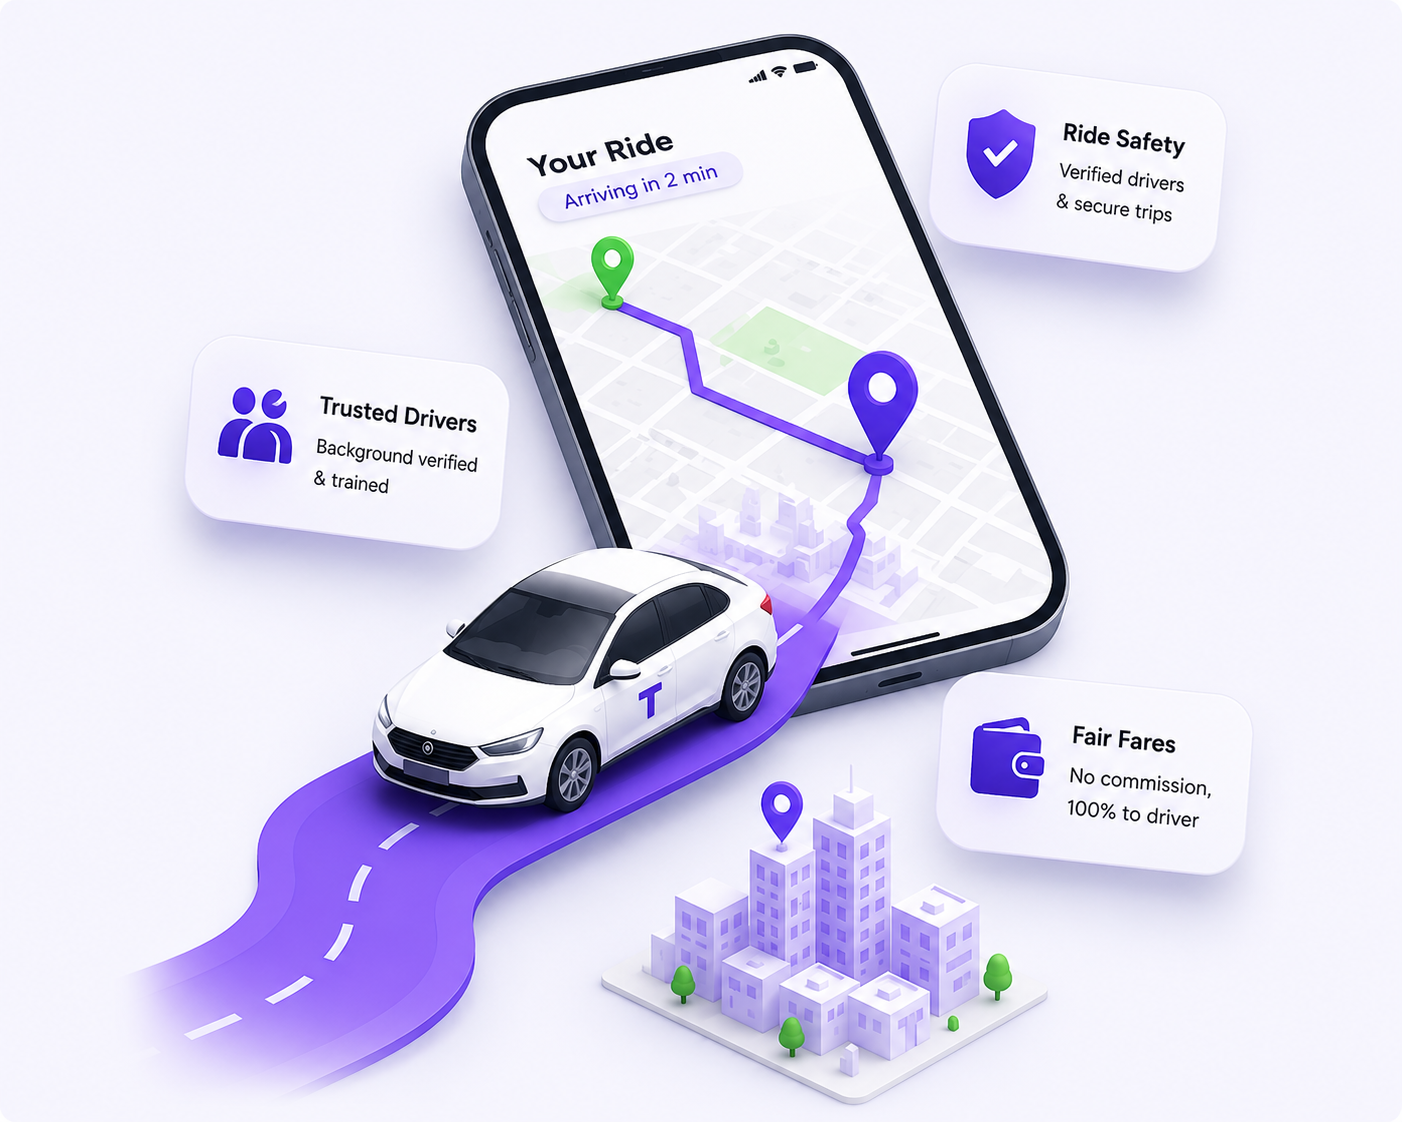
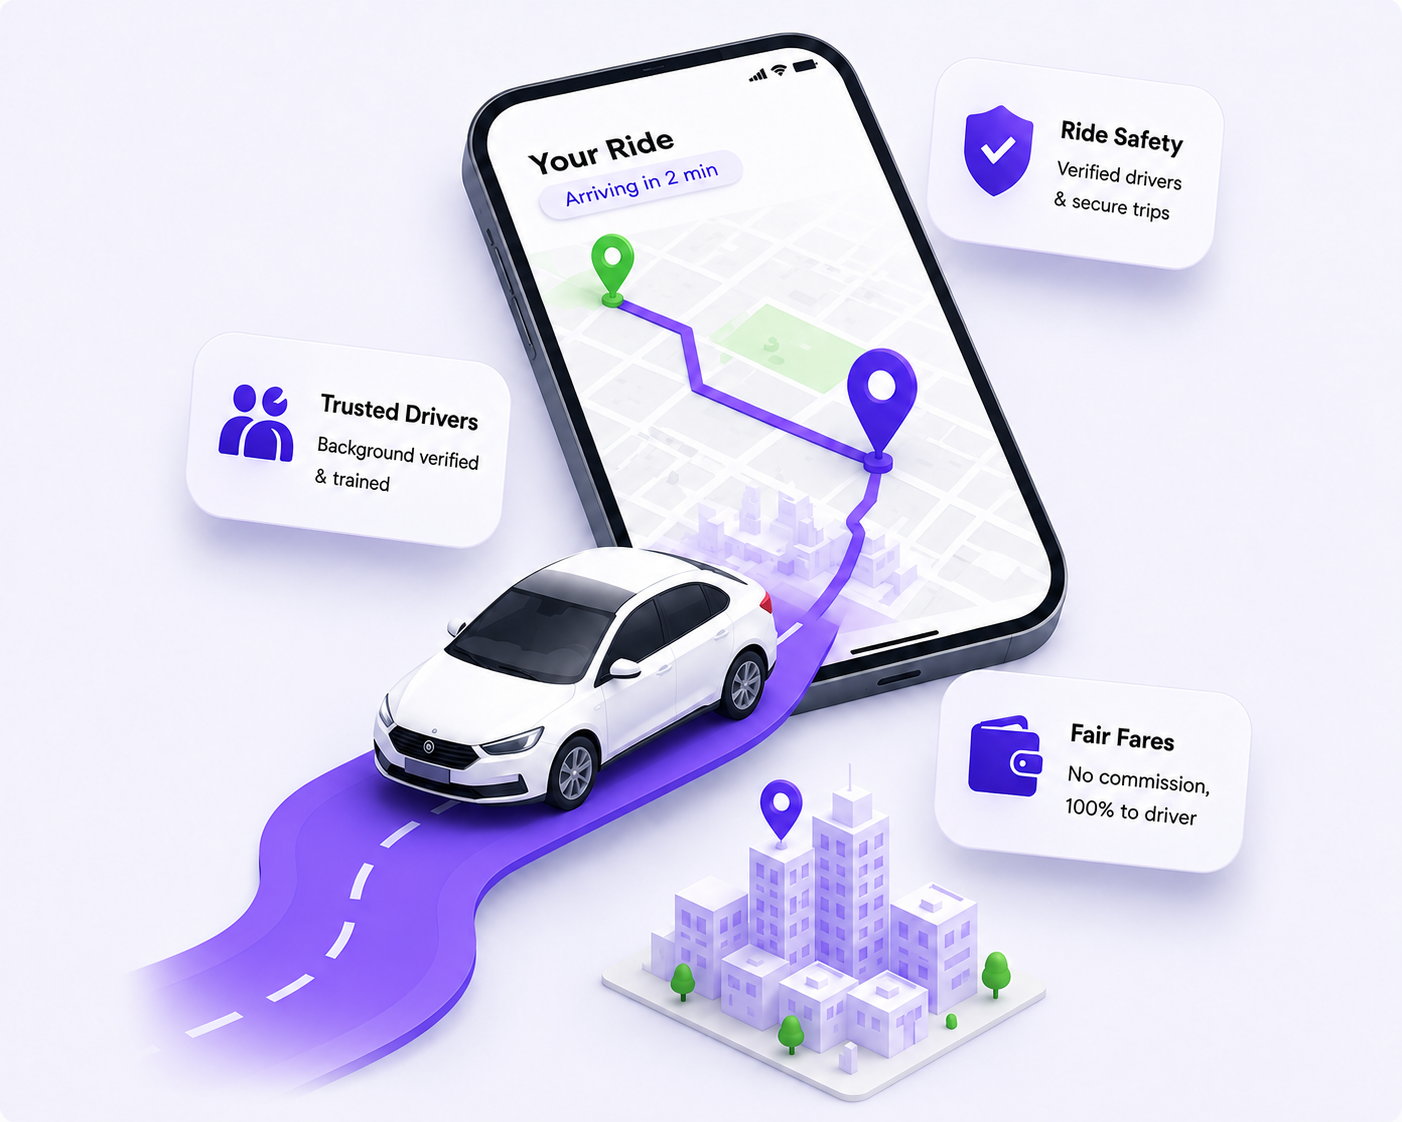
feat: implement circular path orbit animation in driver section and correct brand spelling

diff --git a/frontend_torkk/src/sections/captain/CaptainIllustration.jsx b/frontend_torkk/src/sections/captain/CaptainIllustration.jsx
@@ -7,7 +7,58 @@ import {
 
 export default function CaptainIllustration() {
   return (
-    <div className="relative flex h-[320px] sm:h-[420px] items-center justify-center w-full max-w-[400px] sm:max-w-none mx-auto">
+    <div className="relative flex h-[320px] sm:h-[420px] items-center justify-center w-full max-w-[400px] sm:max-w-none mx-auto orbit-container">
+      <style>{`
+        .orbit-container {
+          --orbit-radius: 95px;
+        }
+        @media (min-width: 640px) {
+          .orbit-container {
+            --orbit-radius: 155px;
+          }
+        }
+        @keyframes orbit-1 {
+          0% {
+            transform: translate(-50%, -50%) rotate(0deg) translate(var(--orbit-radius)) rotate(0deg);
+          }
+          100% {
+            transform: translate(-50%, -50%) rotate(360deg) translate(var(--orbit-radius)) rotate(-360deg);
+          }
+        }
+        @keyframes orbit-2 {
+          0% {
+            transform: translate(-50%, -50%) rotate(120deg) translate(var(--orbit-radius)) rotate(-120deg);
+          }
+          100% {
+            transform: translate(-50%, -50%) rotate(480deg) translate(var(--orbit-radius)) rotate(-480deg);
+          }
+        }
+        @keyframes orbit-3 {
+          0% {
+            transform: translate(-50%, -50%) rotate(240deg) translate(var(--orbit-radius)) rotate(-240deg);
+          }
+          100% {
+            transform: translate(-50%, -50%) rotate(600deg) translate(var(--orbit-radius)) rotate(-600deg);
+          }
+        }
+        .orbit-card-1 {
+          animation: orbit-1 25s linear infinite;
+        }
+        .orbit-card-2 {
+          animation: orbit-2 25s linear infinite;
+        }
+        .orbit-card-3 {
+          animation: orbit-3 25s linear infinite;
+        }
+        .orbit-card-1:hover,
+        .orbit-card-2:hover,
+        .orbit-card-3:hover {
+          animation-play-state: paused;
+          scale: 1.05;
+          z-index: 20;
+        }
+      `}</style>
+
       {/* Background Glow */}
       <div className="absolute h-56 w-56 sm:h-80 sm:w-80 rounded-full bg-white/10 blur-3xl" />
       <div className="absolute h-40 w-40 sm:h-56 sm:w-56 rounded-full bg-pink-400/20 blur-3xl" />
@@ -19,8 +70,8 @@ export default function CaptainIllustration() {
         </div>
       </div>
 
-      {/* Earnings */}
-      <div className="absolute left-0 sm:left-6 top-4 sm:top-10 rounded-xl sm:rounded-2xl bg-white px-3 py-2 sm:px-5 sm:py-3 shadow-xl transition-all duration-300">
+      {/* Earnings Card */}
+      <div className="absolute left-1/2 top-1/2 orbit-card-1 rounded-xl sm:rounded-2xl bg-white px-3 py-2 sm:px-5 sm:py-3 shadow-xl transition-all duration-300">
         <div className="flex items-center gap-1.5 sm:gap-2">
           <FaRupeeSign className="text-sm sm:text-base text-green-600 shrink-0" />
           <span className="text-xs sm:text-sm font-semibold text-gray-800 whitespace-nowrap">
@@ -29,8 +80,8 @@ export default function CaptainIllustration() {
         </div>
       </div>
 
-      {/* Location */}
-      <div className="absolute right-0 sm:right-5 top-14 sm:top-16 rounded-xl sm:rounded-2xl bg-white px-3 py-2 sm:px-5 sm:py-3 shadow-xl transition-all duration-300">
+      {/* Location Card */}
+      <div className="absolute left-1/2 top-1/2 orbit-card-2 rounded-xl sm:rounded-2xl bg-white px-3 py-2 sm:px-5 sm:py-3 shadow-xl transition-all duration-300">
         <div className="flex items-center gap-1.5 sm:gap-2">
           <FaMapMarkerAlt className="text-sm sm:text-base text-red-500 shrink-0" />
           <span className="text-xs sm:text-sm font-semibold text-gray-800 whitespace-nowrap">
@@ -39,8 +90,8 @@ export default function CaptainIllustration() {
         </div>
       </div>
 
-      {/* Support */}
-      <div className="absolute bottom-4 sm:bottom-10 left-4 sm:left-14 rounded-xl sm:rounded-2xl bg-white px-3 py-2 sm:px-5 sm:py-3 shadow-xl transition-all duration-300">
+      {/* Support Card */}
+      <div className="absolute left-1/2 top-1/2 orbit-card-3 rounded-xl sm:rounded-2xl bg-white px-3 py-2 sm:px-5 sm:py-3 shadow-xl transition-all duration-300">
         <div className="flex items-center gap-1.5 sm:gap-2">
           <FaShieldAlt className="text-sm sm:text-base text-blue-600 shrink-0" />
           <span className="text-xs sm:text-sm font-semibold text-gray-800 whitespace-nowrap">

diff --git a/frontend_torkk/src/app/about/page.js b/frontend_torkk/src/app/about/page.js
@@ -111,14 +111,14 @@ export default function AboutPage() {
     {
       name: "Mr. Shivasheesh Kumar",
       role: "FOUNDER & CEO",
-      bio: "Driving the strategic direction and operational execution of Trokk, focusing on zero-commission driver empowerment, deep tech, and scalable mobility ecosystems.",
+      bio: "Driving the strategic direction and operational execution of Torkk, focusing on zero-commission driver empowerment, deep tech, and scalable mobility ecosystems.",
       email: "[email redacted]",
       linkedin: "https://www.linkedin.com/in/shivasheeshkumar/",
     },
     {
       name: "Ms. Mithlesh Kumari",
       role: "CO-FOUNDER",
-      bio: "Steering corporate governance, organizational development, and key growth partnerships for Trokk's nationwide expansion.",
+      bio: "Steering corporate governance, organizational development, and key growth partnerships for Torkk's nationwide expansion.",
       email: "[email redacted]",
     },
     {
@@ -163,7 +163,7 @@ export default function AboutPage() {
           </h1>
 
           <p className="text-[#66687A] text-lg sm:text-xl max-w-2xl leading-8">
-            Trokk isn't just a ride-hailing application it's a movement. Empowering drivers with zero commission and delivering unmatched reliability to every rider.
+            Torkk isn't just a ride-hailing application it's a movement. Empowering drivers with zero commission and delivering unmatched reliability to every rider.
           </p>
 
           <div className="flex flex-wrap items-center justify-start gap-4 pt-4">
@@ -201,10 +201,10 @@ export default function AboutPage() {
 
               <div className="grid grid-cols-1 sm:grid-cols-2 gap-6 text-[#66687A] text-base leading-8 pt-2">
                 <p>
-                  Trokk was born out of a simple yet transformative belief: ride-hailing should be fair, transparent, and rewarding for everyone involved. Traditional platforms charged excessive commissions from hard-working drivers while inflating fares for passengers. We set out to rewrite the rules.
+                  Torkk was born out of a simple yet transformative belief: ride-hailing should be fair, transparent, and rewarding for everyone involved. Traditional platforms charged excessive commissions from hard-working drivers while inflating fares for passengers. We set out to rewrite the rules.
                 </p>
                 <p>
-                  Powered by real-time dispatch technology, verified safety protocols, and a zero-commission model where drivers keep 100% of their earnings, Trokk builds a stronger, more sustainable mobility ecosystem one fair trip at a time.
+                  Powered by real-time dispatch technology, verified safety protocols, and a zero-commission model where drivers keep 100% of their earnings, Torkk builds a stronger, more sustainable mobility ecosystem one fair trip at a time.
                 </p>
               </div>
             </div>

diff --git a/frontend_torkk/src/app/terms/page.js b/frontend_torkk/src/app/terms/page.js
@@ -113,7 +113,7 @@ export default function TermsOfServicePage() {
                   1. Agreement to Terms
                 </h2>
                 <p>
-                  These Terms of Service constitute a legally binding agreement made between you, whether personally or on behalf of an entity (“you”) and BlackOriginX (“we,” “us,” or “our”), concerning your access to and use of the Trok kapplication and website.
+                  These Terms of Service constitute a legally binding agreement made between you, whether personally or on behalf of an entity (“you”) and BlackOriginX (“we,” “us,” or “our”), concerning your access to and use of the Torkk application and website.
                 </p>
                 <p>
                   By accessing or using our services, you agree that you have read, understood, and agree to be bound by all of these Terms of Service. If you do not agree with all of these terms, you are expressly prohibited from using the application and services.
@@ -126,7 +126,7 @@ export default function TermsOfServicePage() {
                   2. User Accounts & Safety
                 </h2>
                 <p className="text-xs text-slate-500 font-medium italic">
-                  In short: You must register an account, maintain accurate information, and respect community safety guidelines when using Trokk.
+                  In short: You must register an account, maintain accurate information, and respect community safety guidelines when using Torkk.
                 </p>
 
                 <ul className="space-y-3 pl-4 list-disc marker:text-[#3B36EA]">
@@ -134,7 +134,7 @@ export default function TermsOfServicePage() {
                     <strong className="text-[#1B1B1F]">Account Responsibility:</strong> You are responsible for safeguarding your login credentials and for all activities that occur under your account.
                   </li>
                   <li>
-                    <strong className="text-[#1B1B1F]">Driver Verification:</strong> Drivers on Trokk must provide valid licensing, vehicle registration, and undergo identity verification.
+                    <strong className="text-[#1B1B1F]">Driver Verification:</strong> Drivers on Torkk must provide valid licensing, vehicle registration, and undergo identity verification.
                   </li>
                   <li>
                     <strong className="text-[#1B1B1F]">Community Standards:</strong> Zero tolerance for harassment, discrimination, or unsafe conduct during rides.
@@ -156,7 +156,7 @@ export default function TermsOfServicePage() {
                   3. Services & Zero-Commission Model
                 </h2>
                 <p>
-                  Trokk provides a technology platform connecting independent riders and community drivers. Trokk operates on a zero-commission policy where drivers retain 100% of their earned trip fares.
+                  Torkk provides a technology platform connecting independent riders and community drivers. Torkk operates on a zero-commission policy where drivers retain 100% of their earned trip fares.
                 </p>
 
                 {/* 2-Card Feature Grid */}
@@ -260,7 +260,7 @@ export default function TermsOfServicePage() {
                   <div className="pt-2 space-y-2 text-xs font-semibold text-[#3B36EA]">
                     <div className="flex items-center gap-2">
                       <Mail className="w-4 h-4" />
-                      <a href="mailto:[email redacted]" className="hover:underline">[email redacted]</a>
+                      <a href="mailto:[email redacted]" className="hover:underline">[email redacted]</a>
                     </div>
 
                   </div>

diff --git a/frontend_torkk/src/app/page.js b/frontend_torkk/src/app/page.js
@@ -235,7 +235,7 @@ export default function HomePage() {
         </div>
       </section>
 
-      {/* How Trok Works 4-Step Process */}
+      {/* How Torkk Works 4-Step Process */}
       <section className="max-w-7xl mx-auto px-4 sm:px-6 lg:px-8 py-12">
         <div className="grid grid-cols-1 lg:grid-cols-12 gap-12 lg:gap-16 items-center">
 
@@ -246,7 +246,7 @@ export default function HomePage() {
                 Simple & Fast
               </h2>
               <h3 className="text-3xl sm:text-4xl font-bold text-[#1B1B1F] leading-tight">
-                How Trokk Works
+                How Torkk Works
               </h3>
             </div>
 
@@ -313,7 +313,7 @@ export default function HomePage() {
             <div className="bg-[#F8F6FB] rounded-[36px]  shadow-md flex items-center justify-center hover:shadow-lg transition-shadow">
               <img
                 src="/Work_image.png"
-                alt="How Trok Works Platform Mockup"
+                alt="How Torkk Works Platform Mockup"
                 className="w-full h-auto rounded-2xl "
               />
             </div>
@@ -568,7 +568,7 @@ export default function HomePage() {
             Join Thousands Choosing Fairer Mobility
           </h3>
           <p className="text-[#66687A] text-base max-w-xl mx-auto mb-8">
-            Download Trok today on iOS or Android and experience zero-commission transparency.
+            Download Torkk today on iOS or Android and experience zero-commission transparency.
           </p>
 
           <div className="flex flex-wrap items-center justify-center gap-4">

diff --git a/frontend_torkk/src/app/admin/layout.js b/frontend_torkk/src/app/admin/layout.js
@@ -88,7 +88,7 @@ export default function AdminLayout({ children }) {
             <ShieldCheck className="w-5 h-5 text-white stroke-[2.5]" />
           </div>
           <div>
-            <h1 className="font-bold text-slate-900 text-base tracking-tight">Trokk Admin</h1>
+            <h1 className="font-bold text-slate-900 text-base tracking-tight">Torkk Admin</h1>
             <p className="text-[10px] text-[#3B36EA] font-bold uppercase tracking-wider">
               Staff Portal
             </p>
@@ -184,7 +184,7 @@ export default function AdminLayout({ children }) {
           />
           <div className="relative w-64 bg-white h-full flex flex-col border-r border-slate-200 z-10 p-4">
             <div className="p-2 mb-4 border-b border-slate-200 flex items-center justify-between">
-              <span className="font-bold text-slate-900 text-base">Trokk Admin</span>
+              <span className="font-bold text-slate-900 text-base">Torkk Admin</span>
               <button
                 onClick={() => setMobileSidebarOpen(false)}
                 className="text-slate-500 hover:text-slate-900"

diff --git a/frontend_torkk/src/app/admin/settings/page.js b/frontend_torkk/src/app/admin/settings/page.js
@@ -24,7 +24,7 @@ export default function AdminSettingsPage() {
   const [success, setSuccess] = useState(false);
 
   const [formData, setFormData] = useState({
-    companyName: "Trokk",
+    companyName: "Torkk",
     supportEmail: "[email redacted]",
     supportPhone: "+1 (800) 555-TORK",
     address: "100 Mobility Way, San Francisco, CA 94107",
@@ -50,7 +50,7 @@ export default function AdminSettingsPage() {
       const data = await settingsService.getSettings();
       if (data) {
         setFormData({
-          companyName: data.companyName || "Trokk",
+          companyName: data.companyName || "Torkk",
           supportEmail: data.supportEmail || "[email redacted]",
           supportPhone: data.supportPhone || "+1 (800) 555-TORK",
           address: data.address || "",

diff --git a/frontend_torkk/src/app/privacy/page.js b/frontend_torkk/src/app/privacy/page.js
@@ -114,7 +114,7 @@ export default function PrivacyPolicyPage() {
                   1. Introduction
                 </h2>
                 <p>
-                  Welcome to Trokk. We are committed to protecting your personal information and your right to privacy. If you have any questions or concerns about this privacy notice, or our practices with regards to your personal information, please contact us.
+                  Welcome to Torkk. We are committed to protecting your personal information and your right to privacy. If you have any questions or concerns about this privacy notice, or our practices with regards to your personal information, please contact us.
                 </p>
                 <p>
                   When you use our services, you trust us with your personal information. We take your privacy very seriously. In this privacy notice, we seek to explain to you in the clearest way possible what information we collect, how we use it, and what rights you have in relation to it.
@@ -261,7 +261,7 @@ export default function PrivacyPolicyPage() {
                   <div className="pt-2 space-y-2 text-xs font-semibold text-[#3B36EA]">
                     <div className="flex items-center gap-2">
                       <Mail className="w-4 h-4" />
-                      <a href="mailto:[email redacted]" className="hover:underline">[email redacted]</a>
+                      <a href="mailto:[email redacted]" className="hover:underline">[email redacted]</a>
                     </div>
 
                   </div>

diff --git a/frontend_torkk/src/components/layout/Navbar.jsx b/frontend_torkk/src/components/layout/Navbar.jsx
@@ -52,14 +52,14 @@ export default function Navbar() {
           <Link href="/" className="flex items-center gap-3.5 group">
             <img
               src={siteSettings?.logoUrlLight || "/logo.png"}
-              alt={siteSettings?.companyName || "Trokk"}
+              alt={siteSettings?.companyName || "Torkk"}
               className="h-14 sm:h-16 w-auto object-contain max-h-16 transition-transform duration-300 group-hover:scale-105"
               onError={(e) => {
                 e.currentTarget.style.display = "none";
               }}
             />
             <span className="text-3xl sm:text-4xl font-bold tracking-tight text-[#1B1B1F] group-hover:text-[#3B36EA] transition-colors">
-              {siteSettings?.companyName || "Trokk"}
+              {siteSettings?.companyName || "Torkk"}
             </span>
           </Link>
 

diff --git a/frontend_torkk/src/app/admin/login/page.js b/frontend_torkk/src/app/admin/login/page.js
@@ -54,7 +54,7 @@ export default function AdminLoginPage() {
         <div className="w-12 h-12 rounded-2xl bg-gradient-to-tr from-amber-500 to-yellow-400 flex items-center justify-center mx-auto shadow-lg shadow-amber-500/20">
           <ShieldCheck className="w-7 h-7 text-slate-950 stroke-[2.5]" />
         </div>
-        <h2 className="text-3xl font-bold text-white">Trokk Admin Portal</h2>
+        <h2 className="text-3xl font-bold text-white">Torkk Admin Portal</h2>
         <p className="text-xs text-slate-400">
           Internal staff authentication. Enter your admin credentials to continue.
         </p>

diff --git a/frontend_torkk/src/app/blog/page.js b/frontend_torkk/src/app/blog/page.js
@@ -36,7 +36,7 @@ export default function BlogListingPage() {
         <div className="text-center max-w-3xl mx-auto mb-16 space-y-4">
           <div className="inline-flex items-center gap-2 px-4 py-1.5 rounded-full bg-[#6E55F2]/10 border border-[#6E55F2]/20 text-[#3B36EA] text-xs font-bold uppercase tracking-wider">
             <BookOpen className="w-3.5 h-3.5 text-[#6E55F2]" />
-            <span>Trokk Newsroom & Blog</span>
+            <span>Torkk Newsroom & Blog</span>
           </div>
           <h1 className="text-4xl sm:text-5xl font-bold text-[#1B1B1F] tracking-tight leading-tight">
             Latest News & Product Updates

diff --git a/frontend_torkk/src/app/layout.js b/frontend_torkk/src/app/layout.js
@@ -13,7 +13,7 @@ const geistMono = Geist_Mono({
 });
 
 export const metadata = {
-  title: "Trokk | Fairer Rides. Safer Journeys.",
+  title: "Torkk | Fairer Rides. Safer Journeys.",
   description:
     "The zero-commission ride-hailing platform built around community trust, safety, and transparent pricing.",
 };

diff --git a/frontend_torkk/src/app/plans/page.js b/frontend_torkk/src/app/plans/page.js
@@ -130,7 +130,7 @@ export default function SubscriptionPlansPage() {
       id: 1,
       question: "How does the 0% commission driver model work?",
       answer:
-        "Trokk charges driver partners a flat weekly or monthly subscription fee instead of taking a percentage cut (25-30%) of each fare. You keep 100% of the trip total paid by passengers.",
+        "Torkk charges driver partners a flat weekly or monthly subscription fee instead of taking a percentage cut (25-30%) of each fare. You keep 100% of the trip total paid by passengers.",
     },
     {
       id: 2,